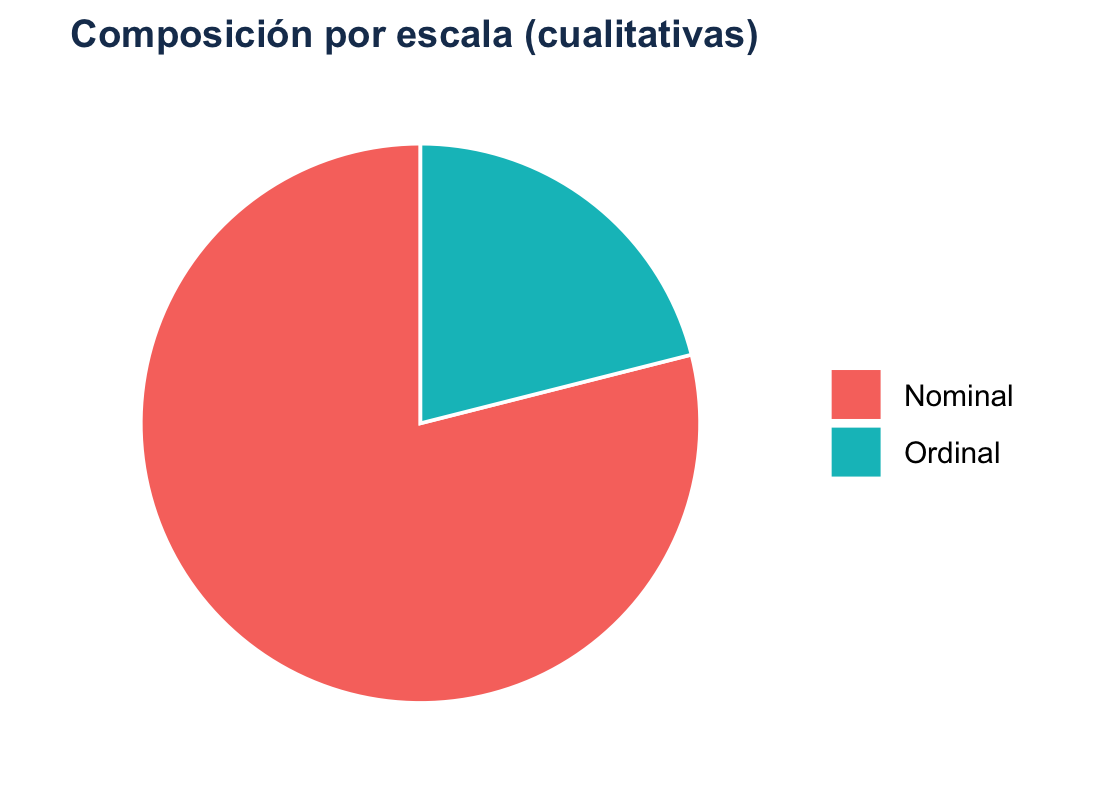
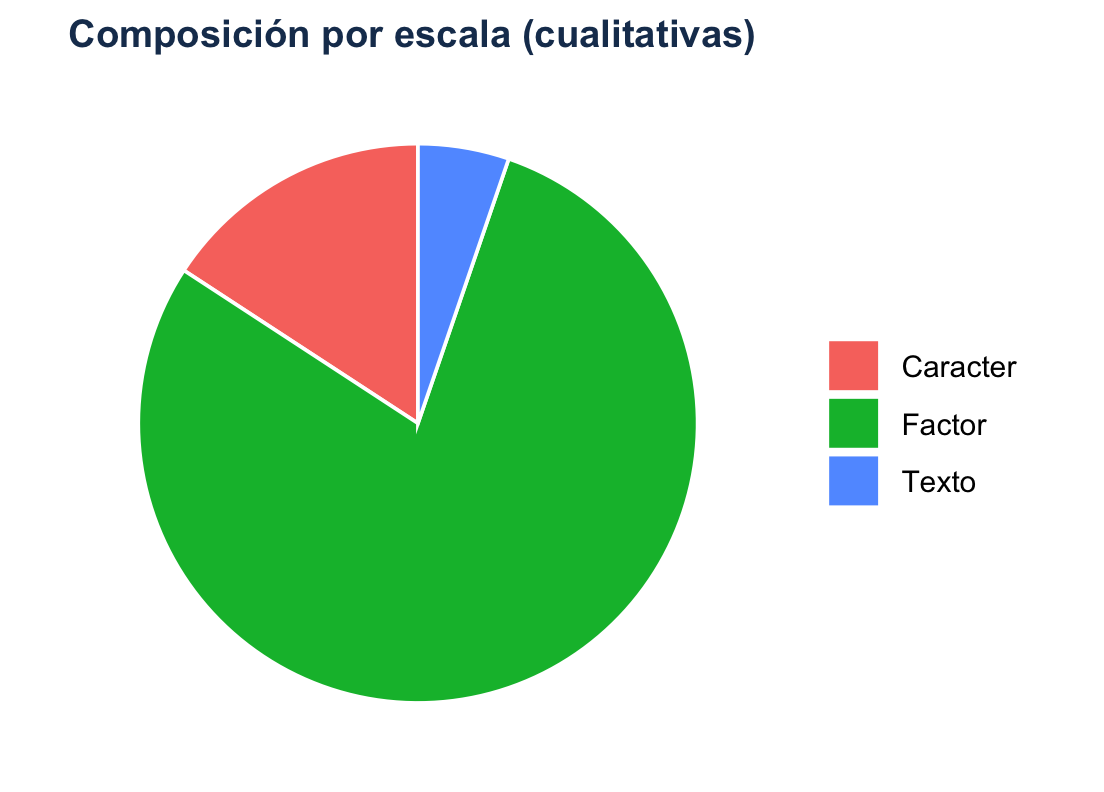
alineación autores y boton pdf

Changed region(s): [[0.1232, 0.1818, 0.6467, 0.9091], [0.7391, 0.4242, 0.9239, 0.6364], [0.0616, 0.0303, 0.7083, 0.0606]]

diff --git a/styles.css b/styles.css
@@ -927,30 +927,48 @@ figcaption,
 }
 
 /* Botón de impresión / exportar a PDF */
-/* Fila que contiene autores + botón */
+/* Fila autores + botón PDF */
 .autor-pdf-row {
-  display: inline-flex;
+  display: flex;
   justify-content: space-between;
-  align-items: center;      /* centra verticalmente el botón respecto a los autores */
+  align-items: center;
   gap: 1.5rem;
-  flex-wrap: wrap;          /* si no caben, el botón baja (en móvil) */
+  flex-wrap: wrap;
+  margin: 1rem 0 2rem 0;
+  padding: 0.9rem 1.1rem;
+  background: var(--color-surface-soft);
+  border: 1px solid var(--color-border);
+  border-left: 4px solid var(--color-accent);
+  border-radius: var(--radius);
 }
 
-/* Bloque de autores: ocupa el espacio disponible */
 .autor-info {
   flex: 1 1 auto;
-  min-width: 0;             /* evita desbordes con textos largos */
+  min-width: 0;
+  font-size: 0.95rem;
 }
 
-/* Barra del botón: NO ocupa toda la línea */
+.autor-info p {
+  margin: 0.15rem 0 0 0;
+}
+
+.autor-info strong {
+  display: block;
+  font-size: 0.78rem;
+  text-transform: uppercase;
+  letter-spacing: 0.08em;
+  color: var(--color-text-soft);
+  font-weight: 700;
+  margin-bottom: 0.1rem;
+}
+
 .action-bar {
   display: inline-flex;
   align-items: center;
-  flex: 0 0 auto;           /* que no se estire */
-  margin: 0.2;                /* quita márgenes verticales que tenías */
+  flex: 0 0 auto;
+  margin: 0;
 }
 
-/* Botón (mantén tus estilos actuales) */
 button.btn-print,
 a.btn-print {
   background: linear-gradient(135deg, var(--color-primary), var(--color-secondary));
@@ -960,7 +978,7 @@ a.btn-print {
   border: none;
   border-bottom: none !important;
   border-radius: 8px;
-  padding: 0.6rem 1.2rem;
+  padding: 0.55rem 1.1rem;
   cursor: pointer;
   box-shadow: var(--shadow-sm);
   transition: transform 0.25s cubic-bezier(0.4, 0, 0.2, 1),
